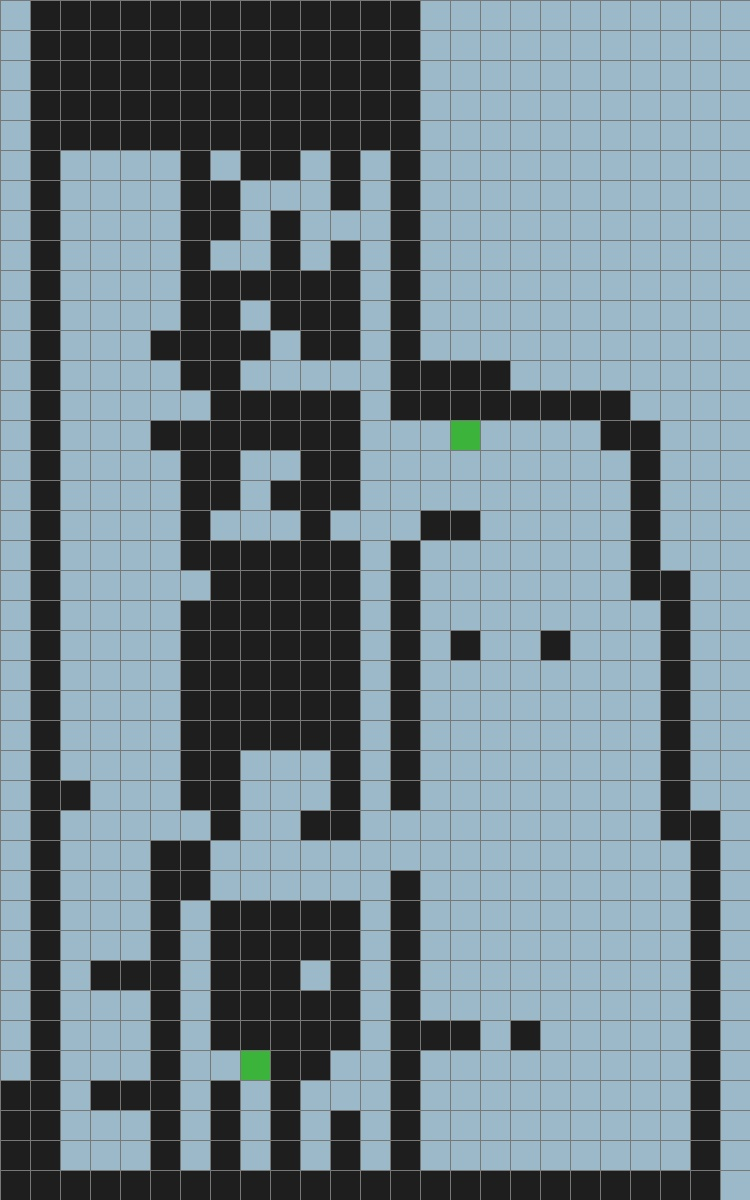
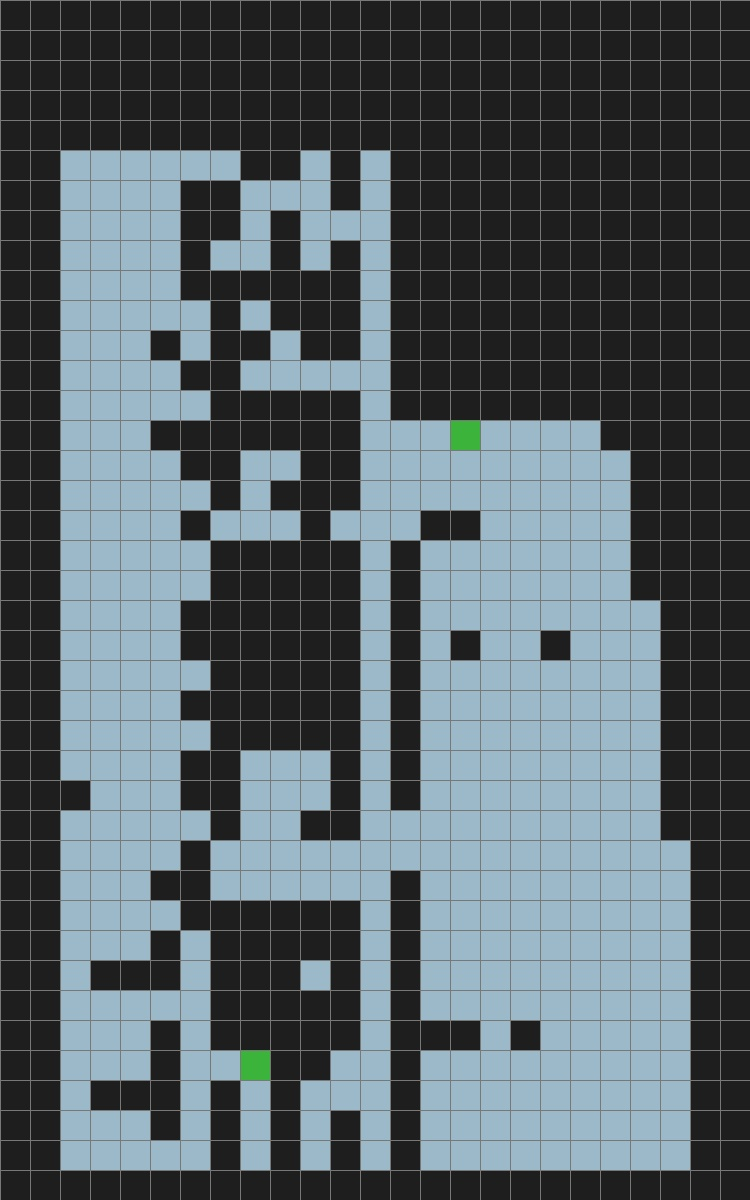
feat: fix Stage 1 grid connectivity via building outline + door detection

diff --git a/stage1/build_base_grid.py b/stage1/build_base_grid.py
@@ -22,6 +22,50 @@ from collections import deque
 HALL, WALL, EXIT, ROOM = 0, 1, 2, 3  # env_core.py와 동일한 인코딩
 TARGET_ROWS, TARGET_COLS = 40, 25
 
+# 실제 이중선 벽 간격을 binary_img.jpg에서 직접 측정한 값(24~26px, 여러 행에서 확인).
+# 그 폭보다 살짝 크게 잡아 두 선을 하나로 메운다(Phase 0, docs/progress.md
+# 2026-08-21 항목 참고).
+WALL_GAP_CLOSE_PX = 29
+
+# 홀 채우기 최대 허용 면적(px², 1/3 리사이즈 좌표계 기준). scipy.ndimage.binary_fill_holes를
+# 그대로 쓰면 진짜 방/복도(최소 8,256px² 확인됨)까지 전부 "홀"로 오인해 벽으로 덮어버린다
+# (실측으로 확인, Phase 0 시행착오). 그보다 훨씬 작은 상한을 둬서 해칭 도형·픽토그램처럼
+# 진짜 작은 홀만 채우고 실제 통행 공간은 절대 건드리지 않는다.
+MAX_HOLE_FILL_AREA_PX = 500
+
+
+def _fill_small_holes(mask, max_area):
+    # mask: 255=wall, 0=background. 배경 연결요소 중 이미지 테두리에 안 닿고
+    # max_area보다 작은 것만 벽으로 채운다(큰 배경 = 진짜 방/복도, 절대 안 건드림).
+    bg = (mask == 0).astype(np.uint8)
+    h, w = bg.shape
+    n, labels, stats, _ = cv2.connectedComponentsWithStats(bg, connectivity=8)
+    filled = mask.copy()
+    for i in range(1, n):
+        x, y, cw, ch, area = stats[i]
+        touches_border = x == 0 or y == 0 or x + cw == w or y + ch == h
+        if not touches_border and area <= max_area:
+            filled[labels == i] = 255
+    return filled
+
+
+def _mask_outside_building(mask):
+    # 건물 바깥(테두리 밖 여백, 요철 모양 컷아웃 등)이 벽 검출 없이 그냥 HALL로
+    # 남는 게 연결성 단절의 가장 큰 원인이었다(실측: Phase 0 후속 분석,
+    # docs/progress.md 2026-08-21 참고). 굵은 외곽선을 가장 큰 외부 컨투어로
+    # 찾아 그 내부만 건물로 인정하고, 바깥은 전부 WALL로 채운다.
+    close_kernel = cv2.getStructuringElement(cv2.MORPH_RECT, (5, 5))
+    for_contour = cv2.morphologyEx(mask, cv2.MORPH_CLOSE, close_kernel)
+    contours, _ = cv2.findContours(for_contour, cv2.RETR_EXTERNAL, cv2.CHAIN_APPROX_SIMPLE)
+    if not contours:
+        return mask
+    outline = max(contours, key=cv2.contourArea)
+    inside = np.zeros_like(mask)
+    cv2.drawContours(inside, [outline], -1, color=255, thickness=cv2.FILLED)
+    result = mask.copy()
+    result[inside == 0] = 255
+    return result
+
 
 def load_wall_mask(image_path="image.jpg"):
     # gridcell_extract.py와 동일한 벽 검출 로직 재사용(색 노이즈 제거 → 어두운 픽셀 → 벽)
@@ -58,6 +102,14 @@ def load_wall_mask(image_path="image.jpg"):
         if w < 15 and h < 15:
             continue
         clean[labels == i] = 255
+
+    # Phase 0 — 정밀도 개선.
+    # 1) 건물 바깥(테두리 밖 여백)을 WALL로 채움 — 연결성 단절의 주 원인이었다(실측 확인).
+    clean = _mask_outside_building(clean)
+    # 2) 작은 홀(픽토그램·해칭 도형 등)만 채운다. 큰 닫힘 연산(이중선 벽 간격 메우기)은
+    #    WALL_GAP_CLOSE_PX=29px로 시도했다가 출구 하나를 완전히 고립시키는 걸 실측으로
+    #    확인해 보류함(진짜 통로 폭과 구분이 안 됨) — 상세: docs/progress.md 2026-08-21.
+    clean = _fill_small_holes(clean, MAX_HOLE_FILL_AREA_PX)
     return clean
 
 
@@ -80,6 +132,29 @@ def find_exit_icons(image_path="image.jpg", min_area=500, top_k=4):
         icons.append((area, cx, cy))
     icons.sort(reverse=True)
     return icons[:top_k], img.shape[:2]  # (h, w)
+
+
+def find_door_openings(image_path="image.jpg", template_path="door_template.png",
+                        search_x_range=(350, 470), score_threshold=0.9, nms_radius_px=50):
+    # 201~209호 각 방과 복도를 잇는 문(door leaf) 기호를 템플릿 매칭으로 찾는다.
+    # 벽 색과 동일한 검은 선이라 색상으로는 못 찾고, 모양(가는 직사각형 외곽선)으로만
+    # 구분된다. 이 문 기호는 이 도면 특유의 그리기 방식이라 다른 건물 사진에는
+    # 일반화되지 않는다 — green 출구 아이콘(표준 소방 색상) 검출과 다르게 이 사진
+    # 전용 보정이다(docs/progress.md 2026-08-21 참고).
+    gray_full = cv2.cvtColor(cv2.imread(image_path), cv2.COLOR_BGR2GRAY)
+    template = cv2.cvtColor(cv2.imread(template_path), cv2.COLOR_BGR2GRAY)
+    x0, x1 = search_x_range
+    strip = gray_full[:, x0:x1]
+    res = cv2.matchTemplate(strip, template, cv2.TM_CCOEFF_NORMED)
+    ys, xs = np.where(res >= score_threshold)
+    candidates = sorted(zip(res[ys, xs].tolist(), ys.tolist(), xs.tolist()), reverse=True)
+    kept = []
+    for score, y, x in candidates:
+        if all(abs(y - ky) > nms_radius_px for _, ky, _ in kept):
+            kept.append((score, y, x))
+    th, tw = template.shape
+    doors = [(y + th // 2, x + x0 + tw // 2) for _, y, x in kept]  # 문 기호 중심(row_px, col_px)
+    return doors, gray_full.shape
 
 
 def pool_to_grid(binary_mask, target_rows, target_cols, threshold=0.05):
@@ -132,6 +207,15 @@ def build_base_grid(image_path="image.jpg"):
     wall_mask = load_wall_mask(image_path)
     grid = pool_to_grid(wall_mask, TARGET_ROWS, TARGET_COLS)
 
+    # 문 기호 위치는 셀 하나보다 작아 풀링 임계값(5%)에서 항상 WALL로 밀리므로,
+    # 검출된 위치를 강제로 HALL로 뚫어준다(Phase 0 후속, docs/progress.md 참고).
+    doors, full_hw = find_door_openings(image_path)
+    door_cells = []
+    for row_px, col_px in doors:
+        r, c = map_icon_to_grid(col_px, row_px, full_hw, TARGET_ROWS, TARGET_COLS)
+        grid[r, c] = HALL
+        door_cells.append((r, c))
+
     icons, full_hw = find_exit_icons(image_path)
     exit_cells = []
     for area, cx, cy in icons:
@@ -140,7 +224,7 @@ def build_base_grid(image_path="image.jpg"):
         exit_cells.append((r2, c2))
         grid[r2, c2] = EXIT
 
-    return grid, exit_cells, icons
+    return grid, exit_cells, icons, door_cells
 
 
 def save_visualization(grid, path="base_grid_vis.jpg", cell_px=30):
@@ -165,7 +249,7 @@ def save_visualization(grid, path="base_grid_vis.jpg", cell_px=30):
 
 
 if __name__ == "__main__":
-    grid, exits, icons = build_base_grid()
+    grid, exits, icons, doors = build_base_grid()
     np.save("base_grid.npy", grid)
     save_visualization(grid)
 
@@ -175,4 +259,5 @@ if __name__ == "__main__":
     print("cell counts:", {names[v]: c for v, c in zip(vals.tolist(), counts.tolist())})
     print(f"detected {len(icons)} green exit icons (area, cx, cy):", icons)
     print("mapped to grid cells (EXIT):", exits)
+    print(f"detected {len(doors)} door openings, forced to HALL:", doors)
     print("출력: base_grid.npy, base_grid_vis.jpg")
